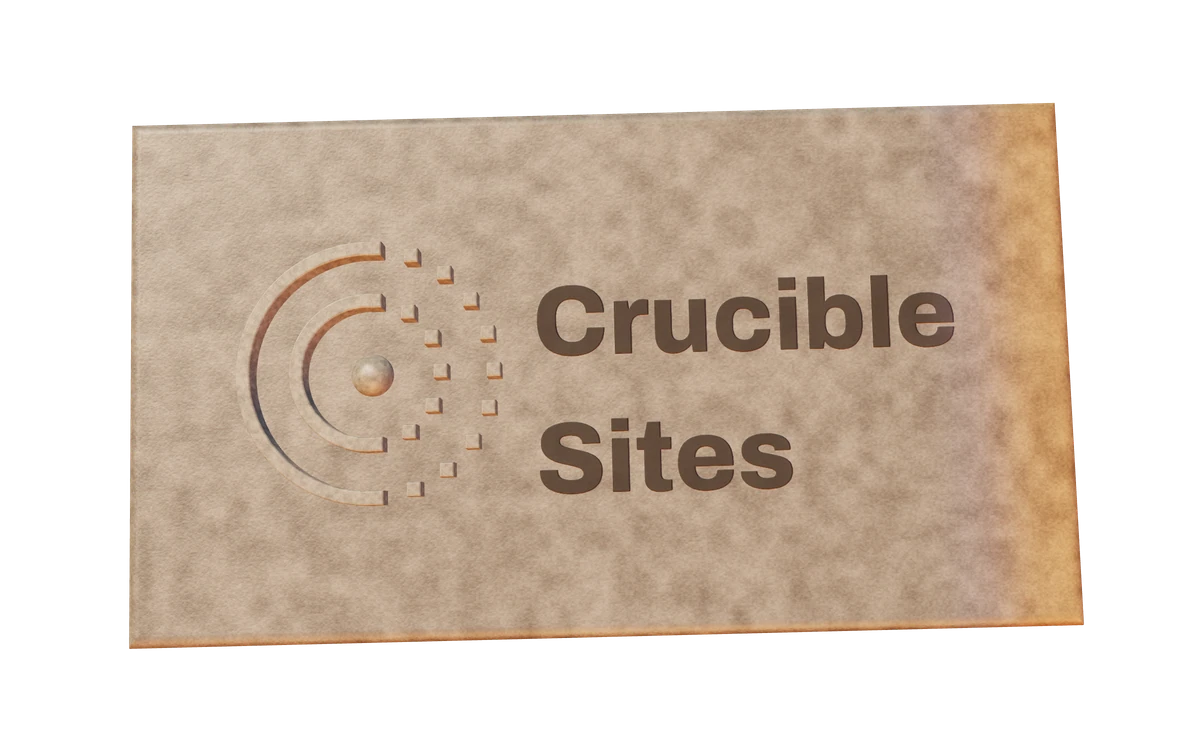
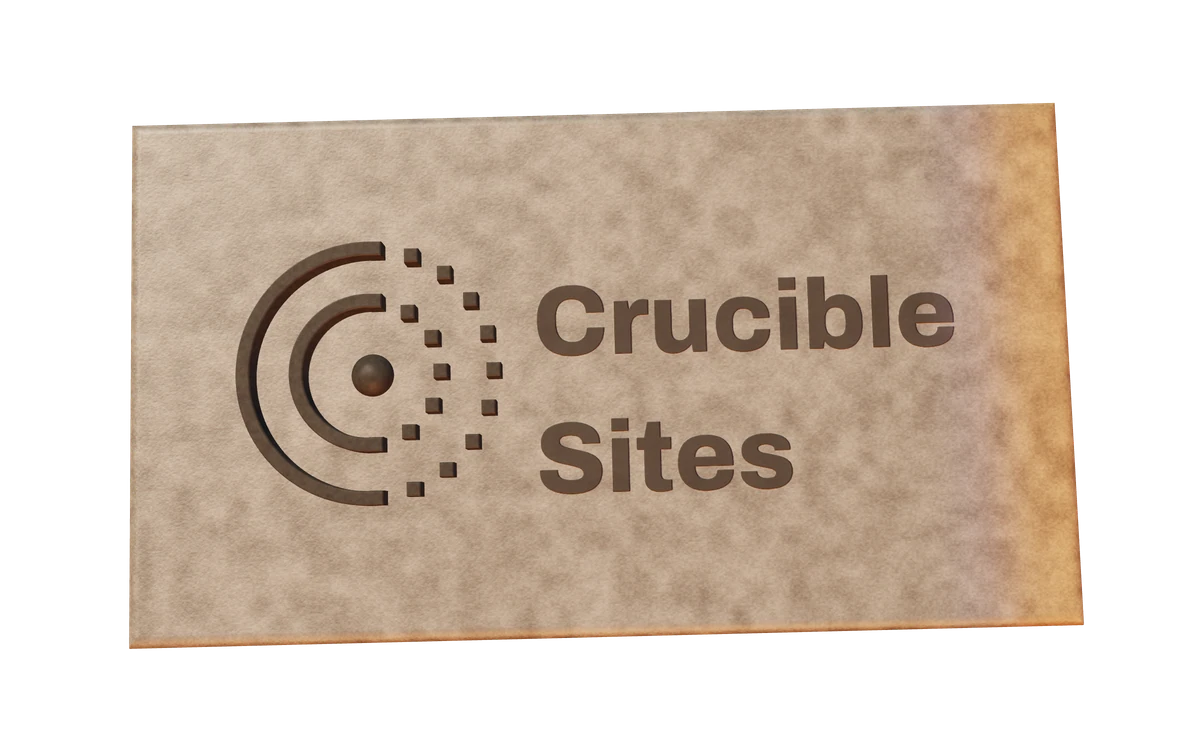
Round 8: one ring set per click, smooth touch wakes, reveals that survive fast jumps, prompt scroll catch-up, legible plaque mark
- Liquid: wake vertices born just before a nearby tap fade by distance, so a click leaves one centred ring set; drag paths are smoothed (quadratic through event midpoints, even spacing, flush after a pause), so sparse touch events can't make a notch
- InView: multi-threshold observer with a rule for tall elements, plus a sweep on scroll, scrollend and resize that reveals anything in view, above the fold or passed
- lib/scroll.ts: catch-up lands within ~0.55 s of wall-clock time after the input; <html data-scroll-settled> when every tracked progress is at target
- Sites plaque: the mark and letters are flat dark ink (low albedo, damped specular), legible at every angle; stills regenerated

Claude-Session: https://claude.ai/code/session_01PrrUSkDFSpj7oKTS8Wa2Wg

Changed region(s): [[0.185, 0.3067, 0.4317, 0.6747]]

diff --git a/lib/liquid/field.ts b/lib/liquid/field.ts
@@ -12,6 +12,10 @@ export const DECAY = 0.45; // amplitude decay per second
 export const SPREAD = 80; // px over which the ring's energy thins as 1/sqrt
 export const SEGSIG = 20; // px: width of a wake's hump (refraction), before it widens with age
 export const TAPGAP = 40; // px between a tap's two rings
+export const APPROACH_WINDOW = 1.0; // s before a tap in which the pointer's approach wake is weakened near the tap
+export const APPROACH_AHEAD = 0.12; // s after: a flick is laid down with births staggered into the future
+export const APPROACH_NEAR = 140; // px: no approach wake at all within this of the tap ...
+export const APPROACH_FAR = 380; // ... full strength beyond this
 export const TRAIL = 28; // px a wake's fainter trailing line sits inside its front
 
 /** Idle swell: a few long directional waves [angle rad, wavelength px, speed px/s, amplitude, phase]. The first one also
@@ -31,7 +35,7 @@ export const MAX_SOURCES = 48; // entries the shader reads (taps, wake segments,
 // VERT_CONT continues the previous vertex. A stroke is a polyline whose every vertex is a disk growing at SPEED.
 export const VERT_START = 21;
 export const VERT_CONT = 20;
-export type Source = { x: number; y: number; t0: number; amp: number; size: number; f?: boolean; sid?: number; px?: number; py?: number; pt?: number };
+export type Source = { x: number; y: number; t0: number; amp: number; size: number; f?: boolean; fade?: number; sid?: number; px?: number; py?: number; pt?: number };
 
 /** Set by the worker renderer's host: called with every new packet so it can be forwarded (a tiny message). */
 export const hooks: { onAdd: ((s: Source, kind: 'ring' | 'float') => void) | null; also: Set<(s: Source, kind: 'ring' | 'float') => void> } = { onAdd: null, also: new Set() };
@@ -92,14 +96,30 @@ function collect(t: number): Frame {
   }
   for (const s of floats) if (s && t >= s.t0 && t - s.t0 < LIFE) fl.push(s);
   taps.sort((p, q) => q.t0 - p.t0);
+  // The pointer's approach to a click is part of the click: wake vertices born just before a tap and near it are weakened
+  // (the closer, the more), so the tap reads as one set of centred rings instead of rings plus an offset wake front.
+  for (const l of byId.values()) {
+    for (const v of l) {
+      let w = 1;
+      if (taps.length) {
+        for (const tp of taps) {
+          const dt = tp.t0 - v.t0;
+          if (dt < -APPROACH_AHEAD || dt > APPROACH_WINDOW) continue;
+          const u = Math.min(1, Math.max(0, (Math.hypot(v.x - tp.x, v.y - tp.y) - APPROACH_NEAR) / (APPROACH_FAR - APPROACH_NEAR)));
+          w = Math.min(w, u * u * (3 - 2 * u));
+        }
+      }
+      v.fade = w;
+    }
+  }
   fl.sort((p, q) => q.t0 - p.t0);
   const strokes: Pt[][] = [];
   for (const l of byId.values()) {
     l.sort((p, q) => p.t0 - q.t0);
     const pts: Pt[] = [];
     const f0 = l[0];
-    if (f0.px !== undefined && t - f0.pt! < LIFE) pts.push({ x: f0.px, y: f0.py!, t: f0.pt!, amp: f0.amp });
-    for (const s of l) pts.push({ x: s.x, y: s.y, t: s.t0, amp: s.amp });
+    if (f0.px !== undefined && t - f0.pt! < LIFE) pts.push({ x: f0.px, y: f0.py!, t: f0.pt!, amp: f0.amp * (f0.fade ?? 1) });
+    for (const s of l) pts.push({ x: s.x, y: s.y, t: s.t0, amp: s.amp * (s.fade ?? 1) });
     // cut at "now": the head of a wake born in the future (a flick is laid down at VCAP) is where it has got to
     const live: Pt[] = [];
     for (let i = 0; i < pts.length; i++) {
@@ -344,6 +364,10 @@ const clamp = (v: number, lo: number, hi: number) => (v < lo ? lo : v > hi ? hi 
 export function bindInput() {
   let ax = 0; // last vertex, page px
   let ay = 0;
+  let ex = 0; // last event, page px
+  let ey = 0;
+  let cx = 0; // start of the next smoothed curve piece (midpoint of the last two events)
+  let cy = 0;
   let has = false;
   let fresh = true; // the next vertex starts a new stroke
   let speed = 0; // px/ms, smoothed
@@ -360,18 +384,19 @@ export function bindInput() {
   const reset = (x: number, y: number, ts: number) => {
     ax = x;
     ay = y;
+    ex = x;
+    ey = y;
+    cx = x;
+    cy = y;
     at = ts;
     has = true;
     fresh = true;
     speed = 0;
   };
-  const moveTo = (x: number, y: number, ts: number, touch: boolean) => {
-    if (!has) reset(x, y, ts);
+  // Lay vertices every SPACING px along the straight way from the last vertex to (x, y).
+  const lay = (x: number, y: number, amp: number) => {
     const dist = Math.hypot(x - ax, y - ay);
     if (dist < SPACING) return;
-    const inst = dist / Math.max(6, ts - at);
-    speed = speed ? speed * 0.5 + inst * 0.5 : inst;
-    const amp = clamp(0.5 + speed * 0.3, 0.5, 1.0) * (touch ? 1.15 : 1);
     const steps = Math.min(MAXSTEPS, Math.floor(dist / SPACING));
     const ux = (x - ax) / dist;
     const uy = (y - ay) / dist;
@@ -391,7 +416,43 @@ export function bindInput() {
       ax = x;
       ay = y;
     }
+  };
+  // The path is smoothed: events are corners, the wake follows the quadratic curve through the midpoints between them (so
+  // sparse or uneven touch/mouse events cannot make a kink), laid at even arc length. It trails the pointer by half an event;
+  // `flush` lays the rest once the pointer has paused or lifted.
+  let flushT = 0;
+  let amp0 = 0.5;
+  const flush = () => {
+    clearTimeout(flushT);
+    if (!has) return;
+    lay(ex, ey, amp0);
+    cx = ex;
+    cy = ey;
+  };
+  const moveTo = (x: number, y: number, ts: number, touch: boolean) => {
+    if (!has) reset(x, y, ts);
+    const dist = Math.hypot(x - ex, y - ey);
+    if (dist < 4) return;
+    const inst = dist / Math.max(6, ts - at);
+    speed = speed ? speed * 0.5 + inst * 0.5 : inst;
+    const amp = (amp0 = clamp(0.5 + speed * 0.3, 0.5, 1.0) * (touch ? 1.15 : 1));
+    const mx1 = (ex + x) * 0.5;
+    const my1 = (ey + y) * 0.5;
+    const K = Math.min(24, Math.max(2, Math.ceil(dist / 10)));
+    for (let j = 1; j <= K; j++) {
+      const u = j / K;
+      const w0 = (1 - u) * (1 - u);
+      const w1 = 2 * u * (1 - u);
+      const w2 = u * u;
+      lay(w0 * cx + w1 * ex + w2 * mx1, w0 * cy + w1 * ey + w2 * my1, amp);
+    }
+    cx = mx1;
+    cy = my1;
+    ex = x;
+    ey = y;
     at = ts;
+    clearTimeout(flushT);
+    flushT = setTimeout(flush, 60) as unknown as number;
   };
 
   const onMove = (e: PointerEvent) => {
@@ -412,12 +473,14 @@ export function bindInput() {
   const onUp = (e: PointerEvent) => {
     const d = down;
     down = null;
+    flush();
     if (e.type === 'pointerup' && d && Math.hypot(e.pageX - d.x, e.pageY - d.y) <= TAP_PX && e.timeStamp - d.t < 800) {
       addSource(e.pageX, e.pageY, e.pointerType === 'touch' ? 2.1 : 1.9, 24);
     }
     if (e.pointerType === 'touch') has = false;
   };
   const onLeave = () => {
+    flush();
     mouseIn = false;
     has = false;
   };

diff --git a/lib/scroll.ts b/lib/scroll.ts
@@ -11,15 +11,21 @@
 // Progress doesn't jump with the scroll position: it follows it like a critically damped spring with a top speed.
 // Scroll faster and the scene plays faster, up to that cap; scroll in jerks (wheel notches, a flick, the keyboard,
 // a dragged scrollbar) and it still plays as one smooth move. Pinned scenes get the most smoothing.
+// Catch-up is bounded: the allowed speed grows with the remaining distance (a jump covers it in ~0.3 s), and anything
+// still more than SLACK behind after DEADLINE seconds of wall-clock time lands at once, so an anchor jump, End key or
+// screenshot tool never waits seconds. <html data-scroll-settled> is set while every tracked progress is at its target.
 
 export type Mode = 'view' | 'enter' | 'pin' | 'reveal' | 'read';
-type Entry = { el: HTMLElement; mode: Mode; cb?: (p: number) => void; last: number; v: number };
+type Entry = { el: HTMLElement; mode: Mode; cb?: (p: number) => void; last: number; v: number; late: number };
 
 const entries = new Set<Entry>();
 let raf = 0;
 let bound = false;
 let prev = 0;
 
+const CATCH = 0.3; // seconds a jump may take at the allowed speed
+const DEADLINE = 0.55; // seconds of wall-clock time before a lagging progress lands
+const SLACK = 0.01;
 const clamp = (v: number) => (v < 0 ? 0 : v > 1 ? 1 : v);
 
 // Smoothing per mode: seconds to catch up, and the top speed in viewport heights of scrolling per second.
@@ -62,7 +68,7 @@ function follow(e: Entry, to: number, lag: number, max: number, dt: number) {
 function frame(now: number) {
   raf = 0;
   // Real elapsed time (the spring is stable for long frames), but not a pause such as a hidden tab.
-  const dt = prev ? Math.min(0.1, (now - prev) / 1000) : 1 / 60;
+  const dt = prev ? Math.min(3, Math.max(0, now - prev) / 1000) : 1 / 60;
   prev = now;
   const vh = innerHeight;
   const updates: [Entry, number][] = [];
@@ -74,11 +80,19 @@ function frame(now: number) {
       // Off-screen: settle at the nearest end so nothing is left half-animated.
       p = r.top > 0 ? 0 : 1;
       e.v = 0;
+      e.late = 0;
     } else {
       const [to, len] = progress(e.mode, r, vh);
       const { lag, vh: speed } = FEEL[e.mode];
       // First sight (load, restored scroll position) and reduced motion: no easing in.
-      p = e.last < 0 || calm ? to : follow(e, to, lag, (speed * vh) / len, dt);
+      const gap = Math.abs(to - e.last);
+      p = e.last < 0 || calm ? to : follow(e, to, lag, Math.max((speed * vh) / len, gap / CATCH), dt);
+      e.late = Math.abs(to - p) > SLACK ? e.late + dt : 0;
+      if (e.late > DEADLINE) {
+        p = to;
+        e.v = 0;
+        e.late = 0;
+      }
       if (Math.abs(to - p) > 0.0004) moving = true;
       else p = to;
     }
@@ -91,17 +105,25 @@ function frame(now: number) {
   }
   // Keep going while anything is still catching up; otherwise sleep until the next scroll.
   if (moving) raf = requestAnimationFrame(frame);
-  else prev = 0;
+  else {
+    prev = 0;
+    document.documentElement.setAttribute('data-scroll-settled', '');
+  }
 }
 let calm = false;
 
 export const requestScrollFrame = () => {
-  if (!raf) raf = requestAnimationFrame(frame);
+  document.documentElement.removeAttribute('data-scroll-settled');
+  if (!raf) {
+    // Time runs from the input, not from the first frame: a slow first frame still counts towards the deadline.
+    if (!prev) prev = performance.now();
+    raf = requestAnimationFrame(frame);
+  }
 };
 
 /** Track an element. Returns an untrack function. */
 export function trackScroll(el: HTMLElement, mode: Mode, cb?: (p: number) => void) {
-  const entry: Entry = { el, mode, cb, last: -1, v: 0 };
+  const entry: Entry = { el, mode, cb, last: -1, v: 0, late: 0 };
   entries.add(entry);
   if (!bound) {
     bound = true;

diff --git a/components/InView.tsx b/components/InView.tsx
@@ -5,23 +5,60 @@ import { releaseConceptFonts } from '@/lib/tier';
 
 /**
  * One shared IntersectionObserver for every [data-reveal] / [data-words] / [data-cast] element: sets data-in at 15%
- * visibility. A second one keeps data-live on [data-heat] elements while they're on screen (their loops pause off it).
+ * visibility (of the element or of the viewport height, so tall elements work), plus a sweep that reveals anything in view or passed after jumps. A second one keeps data-live on [data-heat] elements while they're on screen (their loops pause off it).
  */
 export function InView() {
   const pathname = usePathname();
   useEffect(() => {
     releaseConceptFonts();
+    const SEL = '[data-reveal]:not([data-in]), [data-words]:not([data-in]), [data-cast]:not([data-in])';
+    const pending = new Set<Element>();
+    const show = (el: Element) => {
+      el.setAttribute('data-in', '');
+      pending.delete(el);
+      io.unobserve(el);
+    };
+    // 0.15 of the element, or 15% of the viewport's height of it: an element taller than the viewport / 0.15 can never reach a ratio of 0.15.
     const io = new IntersectionObserver(
       (entries) => {
         for (const e of entries) {
           if (!e.isIntersecting) continue;
-          e.target.setAttribute('data-in', '');
-          io.unobserve(e.target);
+          const vh = e.rootBounds?.height ?? innerHeight;
+          if (e.intersectionRatio >= 0.15 || e.intersectionRect.height >= vh * 0.15) show(e.target);
         }
       },
-      { threshold: 0.15 },
+      { threshold: [0, 0.01, 0.05, 0.15, 0.3] },
     );
-    document.querySelectorAll('[data-reveal]:not([data-in]), [data-words]:not([data-in]), [data-cast]:not([data-in])').forEach((el) => io.observe(el));
+    // Safety net: a fast or programmatic scroll can jump past an element without an intersection callback, and
+    // content-visibility sections lay out a frame or more after the jump. Anything laid out that is in view or above the
+    // fold (or already passed) is revealed here: on scroll, scroll end, resize, and on a slow timer while any are pending.
+    const sweep = () => {
+      const vh = innerHeight;
+      for (const el of [...pending]) {
+        if (!el.isConnected) {
+          pending.delete(el);
+          continue;
+        }
+        const r = el.getBoundingClientRect();
+        if (r.height > 0 && r.top < vh * 0.85) show(el);
+      }
+    };
+    let raf = 0;
+    const soon = () => {
+      if (!pending.size || raf) return;
+      raf = requestAnimationFrame(() => {
+        raf = 0;
+        sweep();
+      });
+    };
+    document.querySelectorAll(SEL).forEach((el) => {
+      pending.add(el);
+      io.observe(el);
+    });
+    addEventListener('scroll', soon, { passive: true });
+    addEventListener('scrollend', soon);
+    addEventListener('resize', soon);
+    const tick = setInterval(sweep, 400);
     const live = new IntersectionObserver((entries) => {
       for (const e of entries) e.target.toggleAttribute('data-live', e.isIntersecting);
     });
@@ -29,6 +66,11 @@ export function InView() {
     return () => {
       io.disconnect();
       live.disconnect();
+      clearInterval(tick);
+      cancelAnimationFrame(raf);
+      removeEventListener('scroll', soon);
+      removeEventListener('scrollend', soon);
+      removeEventListener('resize', soon);
     };
   }, [pathname]);
   return null;

diff --git a/lib/gl3d/ingots.ts b/lib/gl3d/ingots.ts
@@ -36,7 +36,7 @@ export function ingot(kind: IngotKind): IngotSpec {
     const s = 0.5, front = d / 2;
     for (const p of logoPieces()) {
       const core = p.kind === 'core';
-      parts.push({ mesh: p.mesh, material: 'cast', tone: 0.9, grain: 1.1, seed: core ? 4 : 1, scale: core ? [s, s, s * 0.5] : [s, s, s * 3.2], position: [-24 + p.center[0] * s, p.center[1] * s, front + (core ? 0 : 1.2 * s * 3.2 - 0.25)] });
+      parts.push({ mesh: p.mesh, material: 'cast', tone: 0.88 /* 0.88 = ink in the cast shader: near-black albedo, little specular, so the mark reads at any angle */, grain: 1.1, seed: core ? 4 : 1, scale: core ? [s, s, s * 0.5] : [s, s, s * 3.2], position: [-24 + p.center[0] * s, p.center[1] * s, front + (core ? 0 : 1.2 * s * 3.2 - 0.25)] });
     }
   } else {
     const hw = w / 2, hh = h / 2, cw = 42, chh = 22, depth = 10, front = brickD / 2;

diff --git a/lib/gl3d/materials.ts b/lib/gl3d/materials.ts
@@ -54,7 +54,8 @@ vec3 col;
 if(uMat==0){
 vec3 al=mix(bone,vec3(.2,.185,.18),uTone)*(.74+.5*mix(h0,.5,.8*rl))*(1.-.68*rl);
 float tx=smoothstep(uTemper.x,uTemper.x+22.,p.x),tt=tx*uTemper.y;vec3 tc=mix(vec3(.2,.17,.3),vec3(.42,.2,.06),smoothstep(.2,.8,tx));al=mix(al,tc*(.7+.6*h0),tt*smoothstep(.0,.3,tx));
-col=lit(al,n,v,mix(ao,.85,.7*rl),.62,.38*(1.-.85*rl));
+float ink=step(abs(uTone-.88),.01);al=mix(al,vec3(.05,.047,.045),ink);
+col=lit(al,n,v,mix(ao,.85,.7*rl),.62,.38*(1.-.85*rl)*(1.-.8*ink));
 }else if(uMat==1){
 float bl=smoothstep(.5,.68,.7*vn(p*uGrain*1.7+5.)+.3*h0);
 vec3 al=vec3(1.,.19,.03)*(1.-.78*bl)*(.7+.6*h0);

diff --git a/CLAUDE.md b/CLAUDE.md
@@ -12,7 +12,7 @@ Marketing site for Crucible (studio, `/`) and Crucible Sites (websites for local
 - Copy and content: `data/*.ts` (`site.ts` founder/email/Formspree, `ventures.ts`, `work.ts`, `pricing.ts`, `faq.ts`). Prefer editing data over components.
 - Pages: `app/page.tsx`, `app/sites/page.tsx`, `app/not-found.tsx`, `app/ventures/[slug]` (generated for live ventures without `href`).
 - Brand: tokens and all effect CSS in `app/globals.css`; `components/SplitRing.tsx` (geometry in `lib/splitRing.ts`, shared with favicon), `components/Wordmark.tsx` (dotless ı + Ember dot). Fonts: Archivo is self-hosted as one variable file (`app/fonts/`, wght 400-800, wdth 100-125, Latin subset; recipe in `README.md`); the concept sites' Instrument Serif loads after load + idle via `html[data-fonts]` (`releaseConceptFonts` in `lib/tier.ts`) with a metric-matched fallback until then. Component CSS is imported by the component/page that uses it, not the layout (only globals and `Sites.css` are global).
-- Motion: no animation library. Reveals = `[data-reveal]` / `[data-words]` / `[data-cast]` + one IntersectionObserver (`components/InView.tsx`) + CSS. Scroll-linked effects use `lib/scroll.ts` (`data-scroll="view|enter|pin|reveal|read"` → CSS `var(--p)`, or `trackScroll()`); progress eases toward the scroll position with a capped speed. Pinned scenes are `Ignition` (home opening, see 3D below), `BuildStage` (/sites opening, with the live concept sites in `LiveSite`) and `Thesis`. "Casting" (something poured in behind an Ember front) uses the shared `.cast-*` classes.
+- Motion: no animation library. Reveals = `[data-reveal]` / `[data-words]` / `[data-cast]` + one IntersectionObserver (`components/InView.tsx`, plus a sweep on scroll/scrollend/resize that reveals anything in view or already passed, so fast jumps never leave content hidden) + CSS. Scroll-linked effects use `lib/scroll.ts` (`data-scroll="view|enter|pin|reveal|read"` → CSS `var(--p)`, or `trackScroll()`); progress eases toward the scroll position with a capped speed, but always lands within ~0.55 s of wall-clock time after the input (`<html data-scroll-settled>` when every tracked progress is at target). Pinned scenes are `Ignition` (home opening, see 3D below), `BuildStage` (/sites opening, with the live concept sites in `LiveSite`) and `Thesis`. "Casting" (something poured in behind an Ember front) uses the shared `.cast-*` classes.
 - The liquid (`lib/liquid/`, mounted by `components/Liquid.tsx`): the whole site is a dark liquid. It is an analytic wave field shared by the CPU `sample(x, docY)` -> `{h, gx, gy}` and the shader (`field.ts`, `shader.ts`; no GPU sim, no readback): a ring buffer of wave sources in page CSS px plus an always-on idle swell. Sources come from pointer move/drag, click/tap, scroll (a resting cursor emits along its page-space path) and floaters. `loop.ts` (`onFrame`) is the one rAF loop for the field, floaters and 3D scenes; it idles in hidden tabs. `render.ts`/`liquidWorker.ts` render it in a Web Worker on an OffscreenCanvas (main thread if unsupported); `engine.ts` holds adaptive quality (render scale, fps, source count step down and back up) and detects software GL (SwiftShader/llvmpipe: CI, PageSpeed), which starts at the lowest step and never gives up. `?liquid=full` pins the top step (use for screenshots). Layering: one fixed, pointer-events:none canvas at `z-index:-1` paints the dark itself, so every section background is transparent and content (text, images, 3D canvases) paints above it. Section effect canvases (Thesis flames, footer furnace) are transparent where there is no heat. Wave model: a drag's crest is the edge of the union of growing disks (cone segments) = a V/teardrop wake; a tap is two rings made on pointerup (travel under 10 px); lines combine as max, never summed; floaters only refract; crests fade inside calm zones (the ASCII portraits). The Thesis crest pass in `lib/gl/molten.ts` embeds the same GLSL (`wavesGLSL`/`swellGLSL` in `shader.ts`). Screenshots: `?liquid=full` plus `window.__liquidFreeze(t|null)`; the canvas `data-t` acks the field time of each drawn frame.
 - Floating (`lib/liquid/float.ts`: `startFloat`, `buoy()`): elements ride the waves through CSS `translate`/`rotate` (so they compose with `transform` reveals; layout never changes). `data-float="strong|heading|block|text|none"`: headings (h1/h2/`.h-display`/`.h-section`) and text (p/li/a/button in `main`) are automatic, `block` is explicit (portraits), `strong` is for 3D objects (they float inside their scene via `sample()`/`buoy()`). Excluded always: nav, header, the /sites form (and ancestors holding a form), dialogs, fixed and inline elements. Off under reduced motion.
 - 3D (`lib/gl3d/`, tiny WebGL2, no three.js): `core.ts` (`createStage`), `geometry.ts` (bevelled extrusions from `lib/splitRing.ts`: `logoPieces()`, moulds), `materials.ts` (procedural 'cast' | 'core' | 'hot' | 'sand'; no Blender, no assets), `ingots.ts`/`ingotPose.ts`, `logoScene.ts` + `pour.ts`/`pourGeo.ts` (the home logo: a crucible pours white-hot metal into a sand mould that cools to bone, then the ring floats and drives the Ignition story), `ingotScene.ts` (venture ingots, freestanding on the liquid). `Ignition` and `IngotScene` (`components/`) mount them in their own in-flow canvases: loaded after load + idle, created near the viewport and released when far; the 3D logo (target state) runs in a Web Worker, software GL starts at the lowest quality step, and the headline is visible from first paint. Static version (reduced motion, no JS, no WebGL): the SVG logo and transparent ingot stills in `public/film/ingots`, captured from our own renderer by `scripts/ingot-stills.mjs`; `scripts/venture-og.mjs` builds the venture share images (`public/og`) from them. Story and mould squares are upright everywhere. Software GL drops MSAA and the bump taps and starts at the lowest step; `fidelity: true` (under `?liquid=full` and for the stills) keeps full quality. The logo pour runs on wall-clock time; `section.ig[data-settled]` is set when it ends; `?pourdebug` renders the pour contact sheet. Venture marks on the ingots are drawn in `ingots.ts` (Trellis lattice grid; Verge is an Archivo V placeholder, `// TODO(jakob)`), lettering is recessed and darker than the metal.
